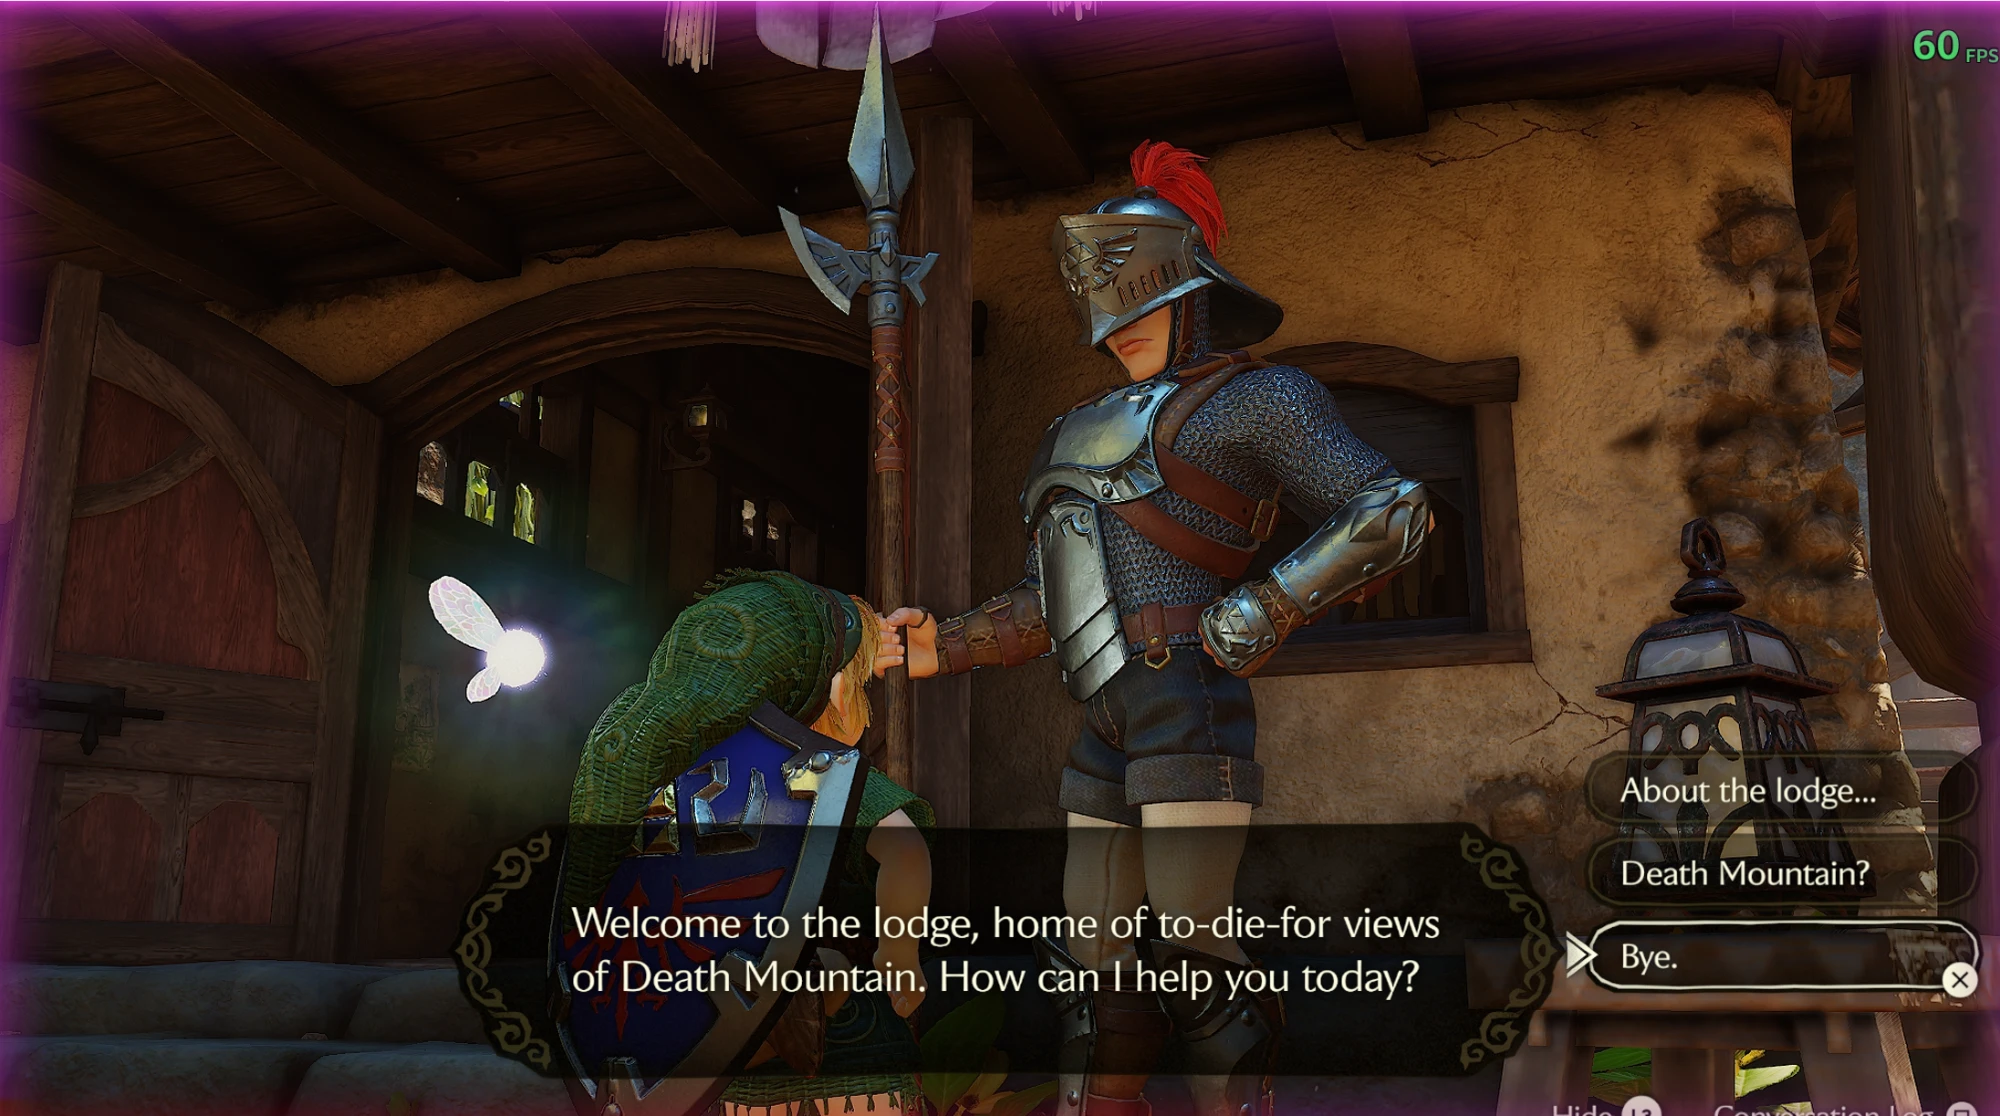
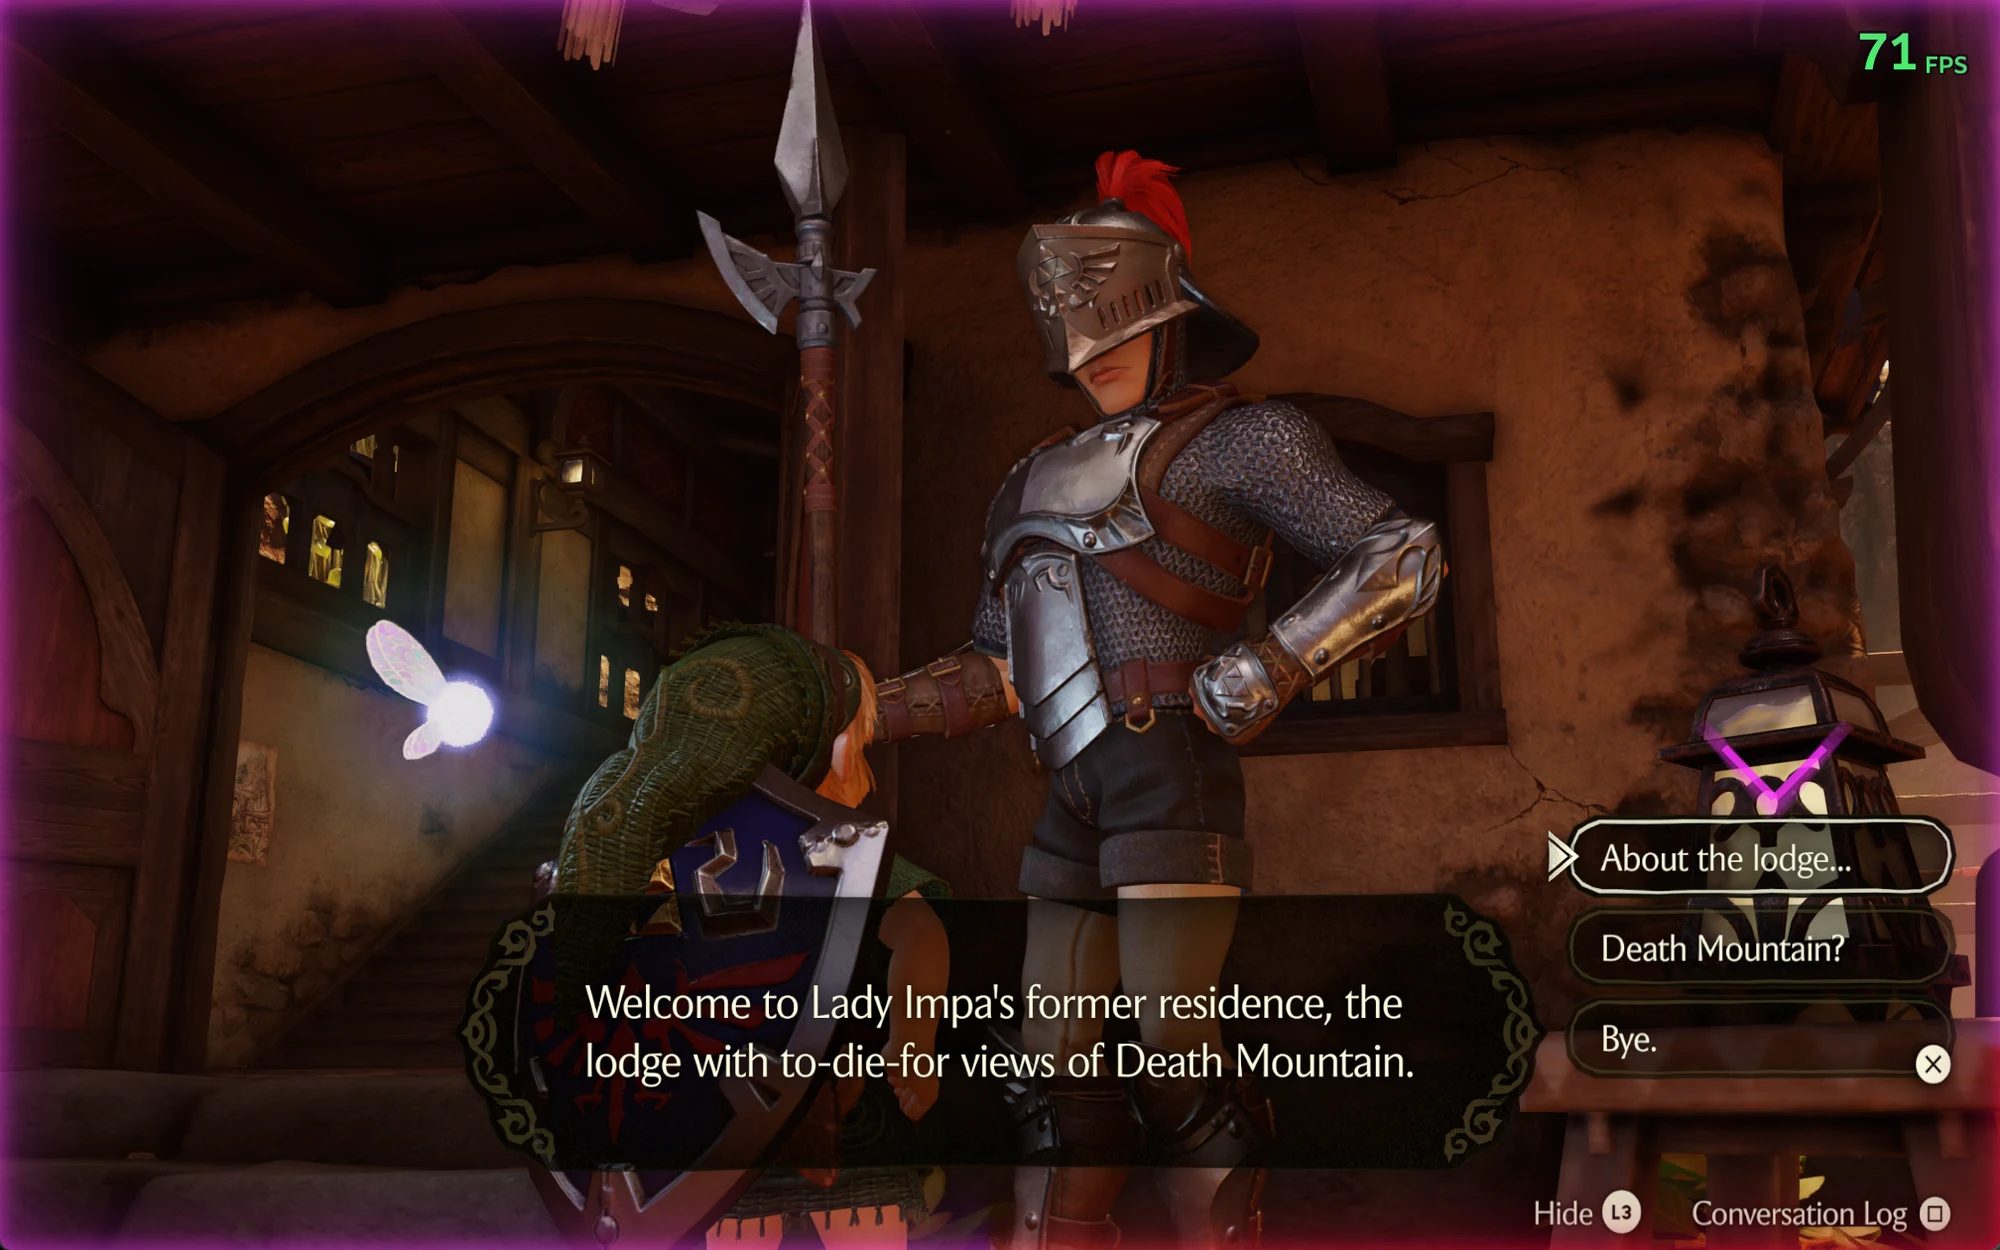
Let the cues be one steady colour, and take fresh screenshots
The rainbow is a lot to sit next to for a long session -- when the edge glow
fires, most of the screen turns rainbow. A new Glow colour row offers Gold,
Green, Blue, Purple and Pink beside it. Rainbow stays the default and behaves
exactly as before; a chosen colour holds one hue still and lets the pulse and
the breathing carry the movement instead.

It applies to both cues, the edge glow and the choice chevron, so they stay a
matched pair. It is purely a renderer-side setting: the draw code reads opts
directly, so it needs no option id and no host plumbing, and its ini key comes
from the row's label like every other.

Gold is the subtlest of them -- against sandy scenery like Kakariko it can
almost disappear -- so the settings table says so rather than leaving people to
wonder whether it is working.

Both screenshots are retaken from a current build, since both were out of date:

- choice-menu.webp now shows the lodge guard's three replies with the rainbow
  chevron pointing at them. The old one predated the chevron entirely and
  showed only the edge glow.
- filled-in-number.webp is the Cucco Lady's "Only 7 left to find!", and shows
  the next arrow without the halo this release removes.

Both are smaller than the files they replace.

Verified on a clean Hookshot v2.1.0 tree: install, the new row present in the
installed source, and uninstall back to a spotless tree.

diff --git a/README.md b/README.md
@@ -35,7 +35,8 @@ for anyone who'd rather listen.
   while talking to someone a second time starts afresh, so you always hear their opening line again.
 - **Leaves the real voice acting alone.** Cutscenes the game voices itself are left to the actors.
 - **Press-next glow.** When a page has been read, a soft rainbow glow pulses round the screen's edge, so a player who
-  can't read knows it's time to press for the next page.
+  can't read knows it's time to press for the next page. Both cues can be set to one steady colour instead of the
+  rainbow.
 - **Settings in the game's Insert menu**, under **Audio**.
 
 ![A number the game fills in, read as part of the line](docs/screenshots/filled-in-number.webp)
@@ -50,6 +51,7 @@ Open the in-game menu (**Insert** or **F1**) and go to the **Audio** tab. Change
 | **Read-aloud voice** | Natural / Windows / Custom | Natural | *Natural* is the lifelike voice ([Piper](https://github.com/rhasspy/piper), runs on your PC). *Windows* is the voice built into Windows, used automatically if Piper isn't installed. *Custom* uses one Piper voice of your own for every line — put its `.onnx` and `.onnx.json` in the `piper\custom` folder next to `hookshot.exe`. |
 | **Read-aloud speed** | 50% – 200% | 100% | How fast lines are read. |
 | **Press-next glow** | Off / Screen edge / Arrow / Both | Both | The rainbow cues. *Screen edge*: the picture's rim glows once a page has been read, to show it's time to press on. *Arrow*: a chevron points at a reply menu, so a player knows the game is asking them to choose. *Both* does each, and is the default — *Arrow* on its own leaves a page that's only waiting to be turned with no cue. |
+| **Glow colour** | Rainbow / Gold / Green / Blue / Purple / Pink | Rainbow | What colour those cues are. *Rainbow* keeps turning through every hue, as it always did; any other holds one colour still, which is calmer to sit next to for a long session. (Gold is the subtlest — against sandy scenery like Kakariko it can almost disappear.) |
 | **Link's voice** | Voice 1 – 16 | Voice 1 | Which voice reads Link's choices. Changing it plays a sample. |
 | **Link's voice pitch** | Normal, +1 – +6 | +3 | How much higher Link's voice is, in semitones, so he sounds younger. Changing it plays a sample. |
 
